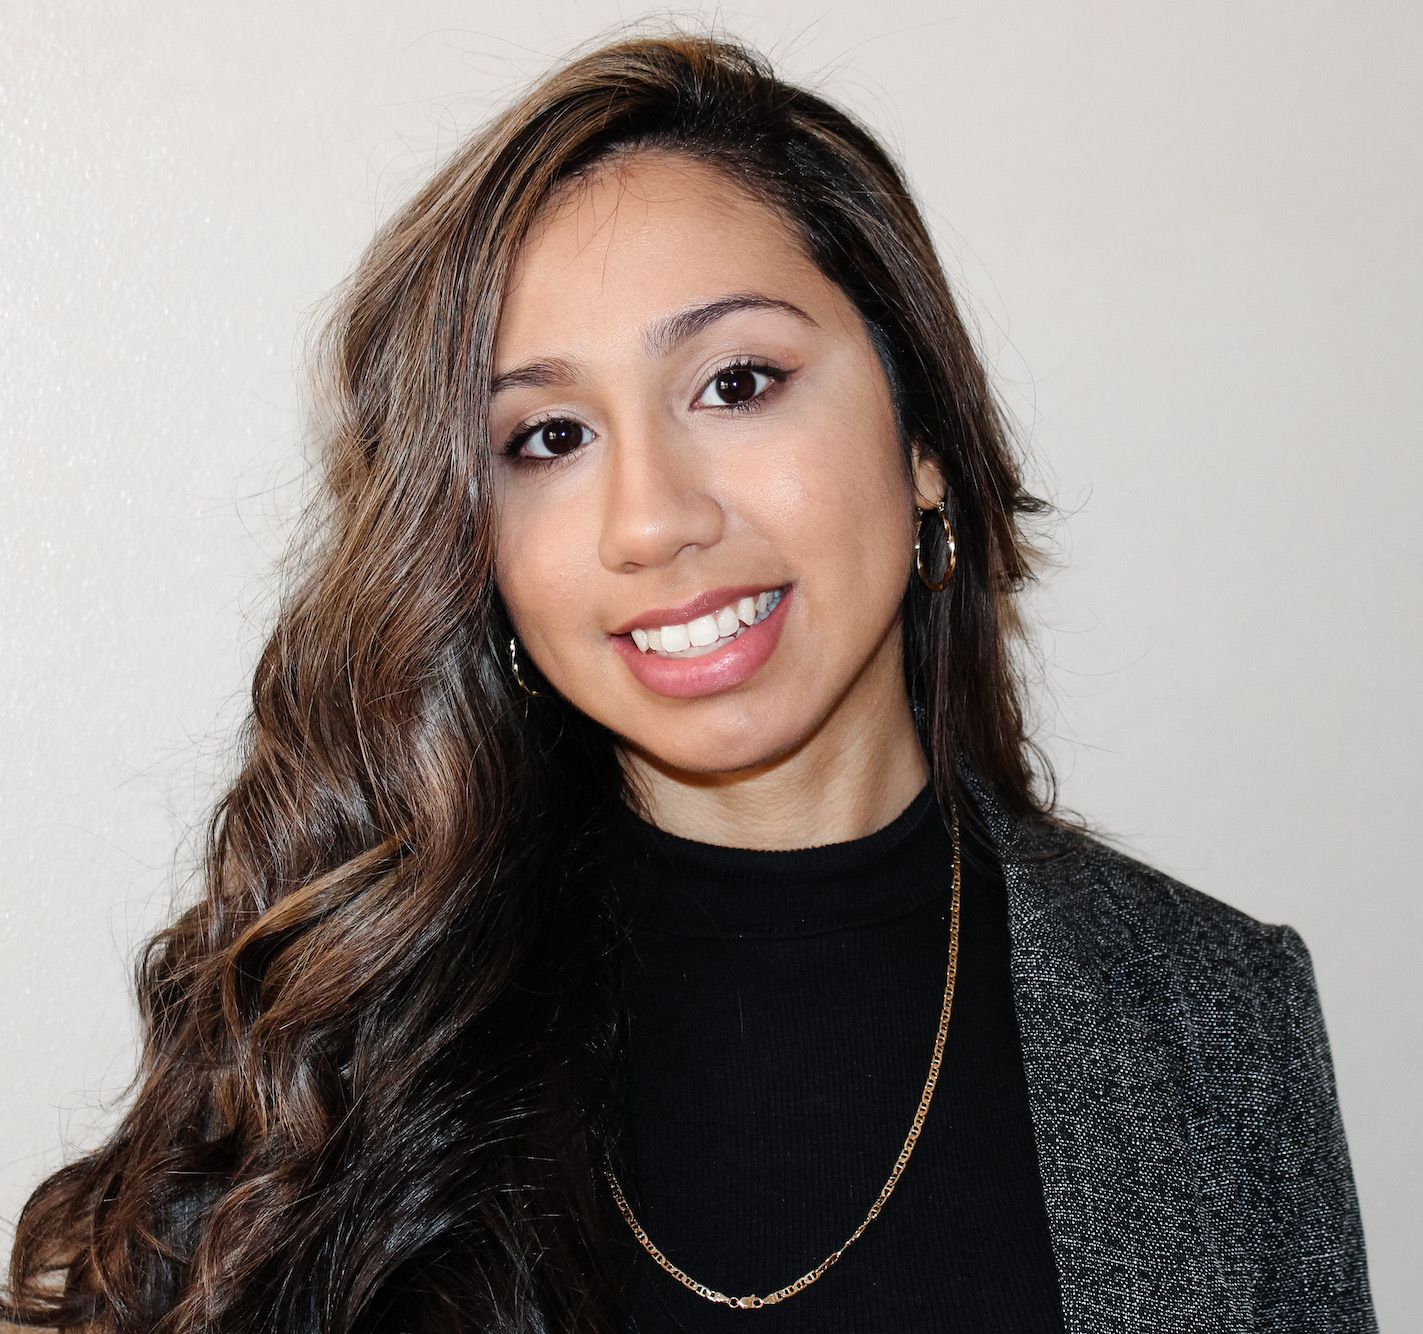
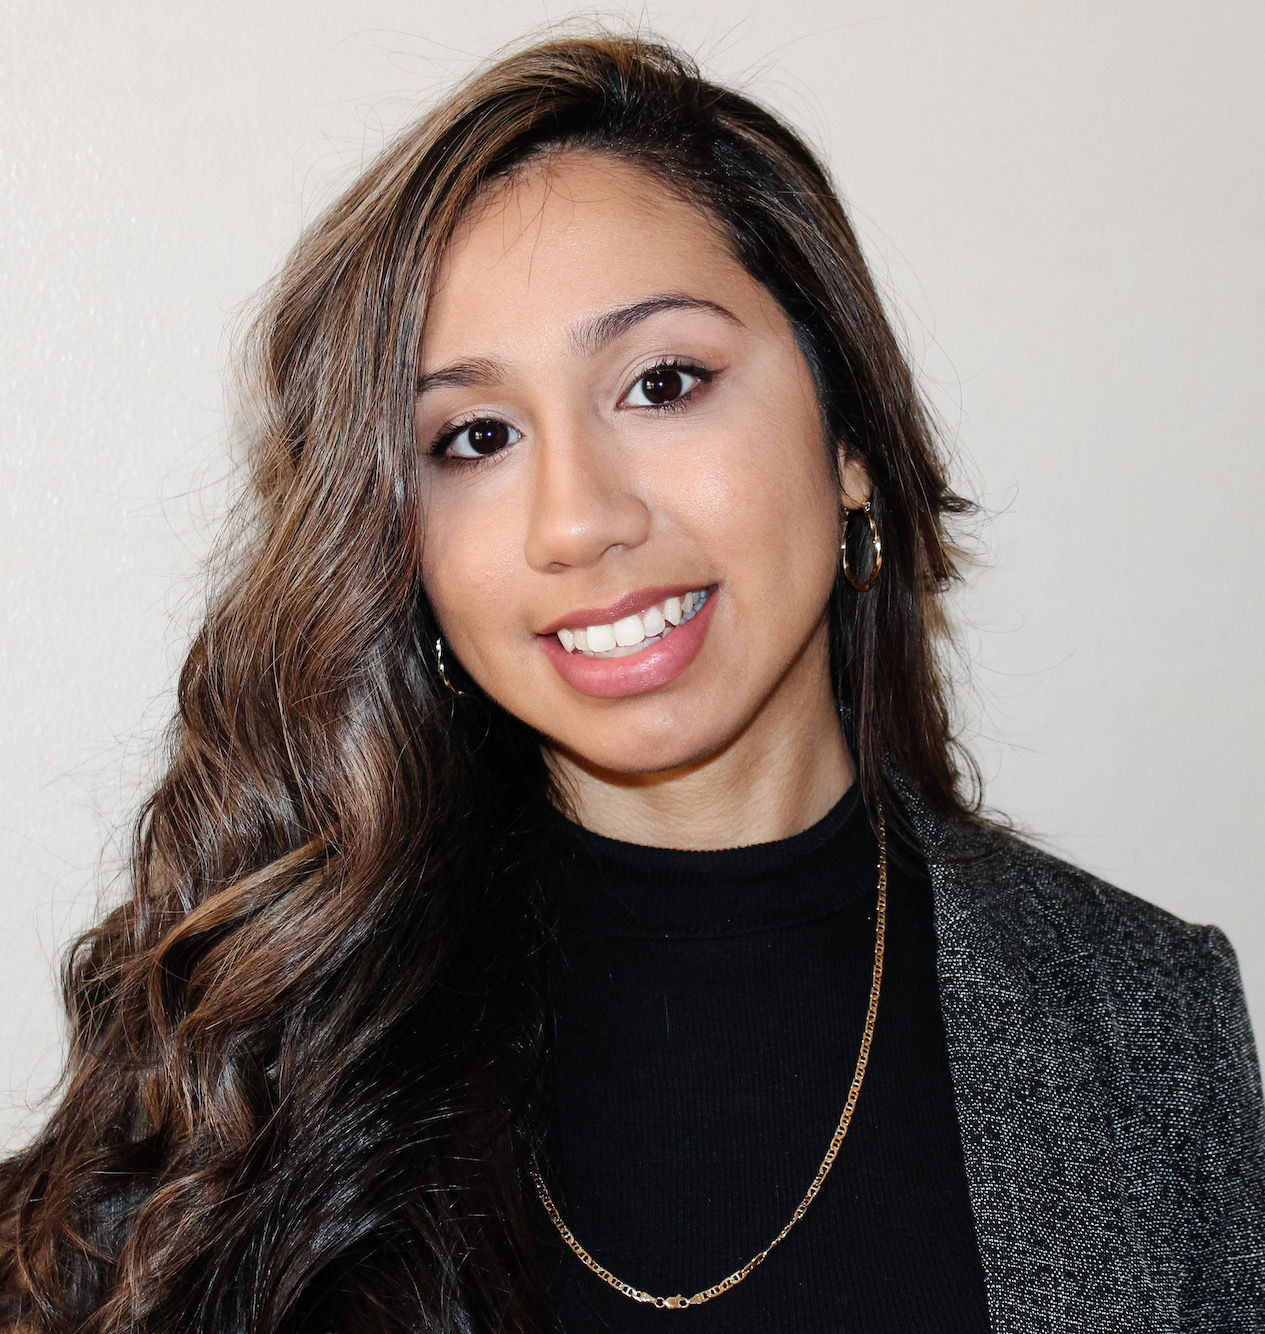
Adjusted profile sizing & Removed work items

diff --git a/work.html b/work.html
@@ -37,7 +37,7 @@
       <h1 class="work-title">My Projects</h1>
       <div class="grid">
 
-        <!-- CHAT APP GRID -->
+        <!-- PORTFOLIO SITE GRID -->
         <div class="grid__item grid-item-1">
           <h1>Chat App</h1>
           <p>
@@ -65,32 +65,8 @@
           </div>
         </div>
 
-        <!-- MEET APP GRID
-        <div class="grid__item grid-item-2">
-          <h1>Meet App</h1>
-            <p> 
-              <a href="https://acevelyn.github.io/meet/" target="_blank">
-                <img src="Img/MeetApp.png" width="100%" alt="Meet App Screenshot">
-                Meet App
-            </a>
-            </p>
-            <p>
-            <a href=”https://github.com/acevelyn/meet” target="_blank"> See project on Github</a>
-            </p>
-            <p>
-            This Meet application is a server-less, progressive web application (PWA) with React using a test-driven development (TDD) technique. The application uses the Google Calendar API to fetch upcoming events that will allow users to filter events by city, show/hide event details, specify number of events, use the app offline, and view a chart showing the number of upcoming events by city.
-            </p>
-            <div class="tech-stack">
-              <h3>TechStack</h3>
-              <ul>
-                <li>React</li>
-                <li>Node/npm</li>
-              </ul>
-            </div>
-        </div> -->
-
         <!-- POKEDEX APP GRID -->
-        <div class="grid__item  grid-item-3">
+        <div class="grid__item grid-item-2">
           <h1>Pokedex Javascript App</h1>
           <p>
             <a href="https://acevelyn.github.io/simple-js-app/" target="_blank">
@@ -115,71 +91,8 @@
           </div>
         </div>
 
-        <!-- TO-DO APP GRID -->
-        <div class="grid__item  grid-item-4">
-          <h1>Javascript To-Do App</h1>
-          <p>
-            <a href="https://acevelyn.github.io/to-do-app/" target="_blank">
-              <img src="Img/ToDoApp.png" width="100%" alt="To-Do App Screenshot">
-              To-Do App
-          </a>
-          </p>
-          <p>
-          <a href="https://github.com/acevelyn/to-do-app" target="_blank">See project on Github </a>
-          </p>
-          <p>
-            A simple Javascript application that allows user to create and edit their own personal to-do list.
-          </p>
-          <div class="tech-stack">
-            <h3>TechStack</h3>
-            <ul>
-              <li>HTML</li>
-              <li>CSS</li>
-              <li>Javascript</li>
-            </ul>
-          </div>
-        </div>
-
-        <!-- REACT FLIX APP GRID -->
-        <div class="grid__item grid-item-5">
-          <h1>React Flix App</h1>
-          <p>
-            <a href="#">
-              <img src="Img/reactflix.png" width="100%" alt="Flix-App Screenshot">
-          </a>
-          <p>Official Link Coming Soon!</p>
-          </p>
-          <p>
-          <a href="https://github.com/acevelyn/Flix-client/tree/react-router" 
-            target="_blank">
-            See project on Github
-          </a>
-          </p>
-          <p>
-            This Flix-client app is the client side of the "movieAPI" application. It will be the visual interface that allows users to interact with the application's database to search for movies and movie details such as genres and directors. It will also give users the ability to sign up for an account, edit their account and create and/or modify their own favorite movies list. It is a single-page application that uses state routing to navigate between views. This application mixes the use of class components and function components to display different views.
-          </p>
-          <div class="tech-stack">
-            <h3>TechStack</h3>
-            <ul>
-              <li>HTML</li>
-              <li>SCSS</li>
-              <li>MongoDB</li>
-              <li>Express</li>
-              <li>React</li>
-              <li>React-Bootstrap</li>
-              <li>React-Dom</li>
-              <li>React-Redux</li>
-              <li>React-Router-Dom</li>
-              <li>React-Devtools-Extension</li>
-              <li>Axios</li>
-              <li>prop-types</li>
-              <li>Node</li>
-            </ul>
-          </div>
-        </div>
-
         <!-- ANGULAR FLIX APP GRID -->
-        <div class="grid__item  grid-item-6">
+        <div class="grid__item  grid-item-3">
           <h1>Angular Flix App</h1>
           <p>
             <a href="https://acevelyn.github.io/myFlix-Angular-client/welcome">
@@ -235,7 +148,7 @@
               </ul>
             </div>
         </div>
-      </div>
+        </div>
     </section>
   </main>
 

diff --git a/css/style.production.css b/css/style.production.css
@@ -26,7 +26,7 @@ body {
 main {
   background-color:#92b7bf;
   border: 1px solid gray;
-  margin-top: 20px;
+  margin: 40px;
 }
 
 h1 {
@@ -191,15 +191,16 @@ button:hover,  button:focus,
 }
 
 .profile {
-  max-width: 520px; /* will keep the profile box from exceedng 700px */
+  max-width: 500px; /* will keep the profile box from exceedng 700px */
   margin: 0 auto; /* will center the profile box */
   padding-top: 20px;
   border-radius: 85%;
   /* background-color: darkgray; */
 }
-.profile h1 {
+.profile-content h1 {
   text-align: left;
   margin-bottom: 0;
+  padding:0;
   font-size: 25px;
 }
 .profile h2 {
@@ -207,10 +208,10 @@ button:hover,  button:focus,
 }
 .profile__portrait {
   float: left; /* moved the image to float left near the text instead of on top */
-  width: 340px; /* adjusted the size of the image */
-  height: 320px;
+  width: 290px; /* adjusted the size of the image */
+  height: 300px;
   margin-right: 15px; /* created space between welcome text and img */
-  border-radius: 50%; /* created a round image */
+  border-radius: 100%; /* created a round image */
   box-shadow: black;
 }
 
@@ -344,14 +345,64 @@ label {
   }
 }
 @media all and (min-width:500px) and (max-width:750px){
+  /* .profile-content {
+    clear: both;
+    text-align: center;
+    border: 1px solid red;
+  } */
   .grid {
     -ms-grid-columns: 1fr 10px 1fr;
     grid-template-columns: 1fr 1fr;
   }
 }
-@media all and (max-width: 500px){
+@media all and (max-width: 600px){
+
+  main {
+    background-color: #fff;
+    border: none;
+  }
+
+  /* .profile__portrait {
+    clear: both;
+    text-align: center;
+    border: 10px solid #92b7bf;
+  } */
+
+  .home-page {
+    text-align: center;
+  }
+
+  .profile-content, .profile-content h1 {
+    text-align: center;
+  }
+
+  .profile__portrait {
+    /* clear: both; */
+    border: 10px solid #92b7bf;
+    /* text-align: center; */
+    margin-bottom: 10px;
+  }
+
+  /* .profile-content, .profile-content h1 {
+    clear: both;
+    text-align: center;
+    border: 1px solid red; 
+  } */
+
   .grid {
     -ms-grid-columns: 1fr;
     grid-template-columns: 1fr;
+  }
+}
+
+@media all and (max-width: 520px){
+
+  .profile__portrait {
+    clear: both;
+    text-align: center;
+  }
+
+  .profile-content, .profile-content h1 {
+    clear:both;
   }
 }

diff --git a/about.html b/about.html
@@ -36,7 +36,14 @@
     <main class="about-page">
       <h1>About</h1>
       <p>
-        Hi, my name is Evelyn Acevedo and I am a Front-end Developer. My interest in Web Development came at an early age, but it wasn't until 2021 that I decided to make a full career change into the field. I am very excited to continue to learn and gain more experience in my career as a Front-end Developer!
+        I am a Front-end developer with a background in customer service and skilled at collaborating across teams. I have always had a passion for technology and its ability to create beautiful interactive user interfaces. My love for helping others bring their ideas to life led me to make a full career change into the field and earn my web development certificate.
+      </p>
+      <p>
+        My previous roles have given me the ability to identify opportunities for improvement in customer satisfaction with a customer-first mindset. I believe these principles are crucial for a front-end developer as the user experience should always be the main focus during the development and design process.
+      </p>
+      <p>
+        I am looking to become a junior front-end developer at a company that values teamwork, collaboration, and encourages independent work. I am seeking the opportunity to learn from and collaborate with creative and like-minded individuals who are passionate about what they are doing and want to make positive changes in people’s lives.
+
       </p>
       <h2>Currently Learning</h2>
       <ul>
@@ -79,6 +86,16 @@
             <td>1</td>
             <td>Beginner</td>
           </tr>
+          <tr>
+            <td>Node</td>
+              <td>1</td>
+              <td>Beginner</td>
+            </tr>
+            <tr>
+              <td>Git</td>
+                <td>1</td>
+                <td>Intermediate</td>
+              </tr>
         </tbody>
       </table>
       <!-- <a href="files/cv.pdf" class="button" download>Download my Resume</a> -->

diff --git a/index.html b/index.html
@@ -36,9 +36,11 @@
   <div class="profile-container"></div>
     <div class="profile">
       <img src="Img/evelyn-acevedo-img.jpeg" class="profile__portrait" alt="Evelyn Acevedo Portrait">
-      <h1 class="greeting">Hey there!</h1>
-      <h3>My name is Evelyn Acevedo.<br>I am a <span>Web</span> Developer & this is my Portfolio!</h3>
-      <a href="https://github.com/acevelyn/" class="button">See more of my code</a>
+      <div class="profile-content">
+        <h1 class="greeting">Hey there!</h1>
+        <p>My name is Evelyn, I am a web developer & this is my Portfolio!</p>
+        <a href="https://github.com/acevelyn/" class="button">See my code</a>
+    </div>
     </div>
     <div class="icons">
       <h3>Find me on</h3>
